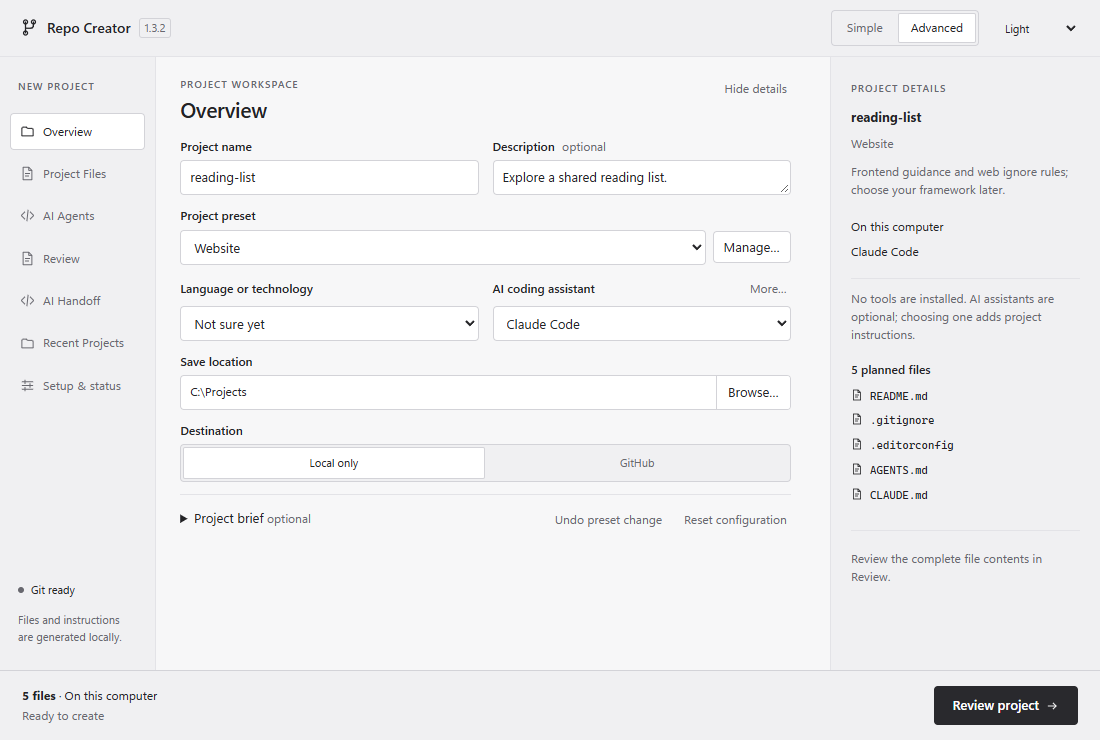
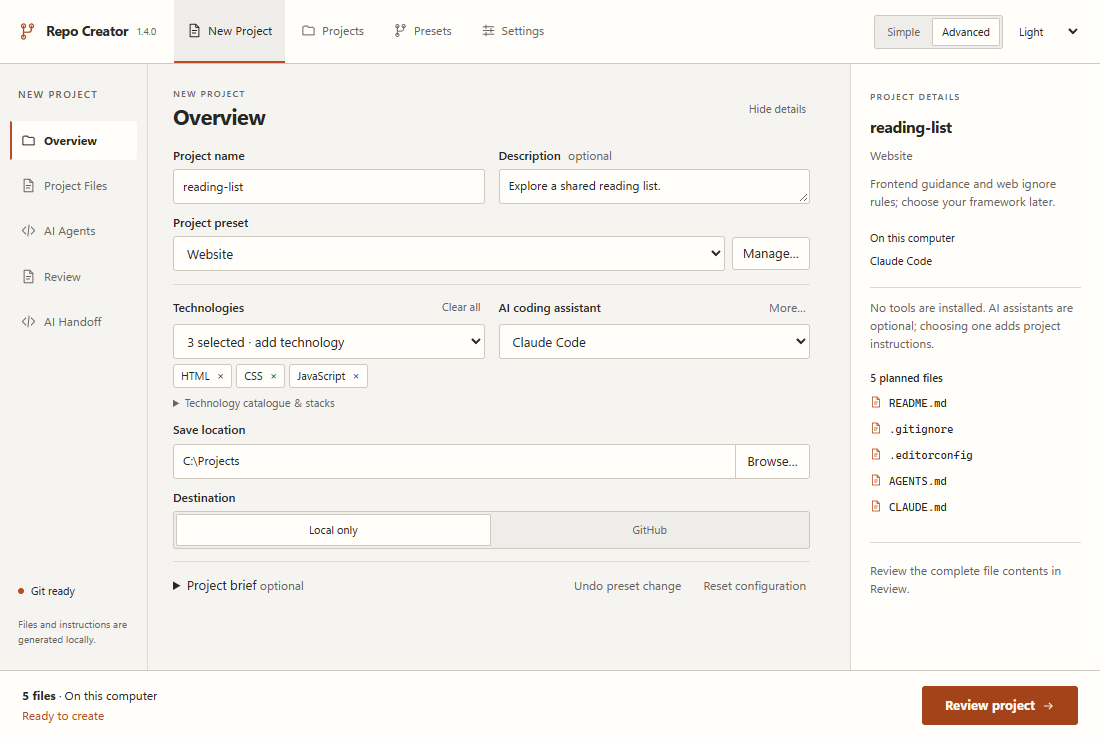
Document v1.4 workspace safety and verify Windows delivery

diff --git a/docs/project-workspace.md b/docs/project-workspace.md
@@ -1,0 +1,131 @@
+# Project workspace
+
+Repo Creator 1.4 adds a local project library and development workspace alongside
+repository creation. Choose **New Project** to create a repository, **Projects**
+to return to one, **Presets** for reusable configurations, or **Settings** to
+check the computer's setup. Simple and Advanced modes continue to share settings.
+
+## Choose a technology stack
+
+Select several technologies together. Search by name, filter by category, use a
+stack preset, or add a custom label. Remove individual chips or clear the
+selection. Simple Mode keeps common choices compact; expand its selector for the
+full catalogue.
+
+Technologies describe intent. Selecting React, Rust, SQLite and Cloudflare
+Workers does not install them or imply that they share an application component.
+Selections inform ignore recommendations, generated AI context, project summaries
+and handoff prompts. Review suggested ignore groups before creating the project.
+Older single-technology configuration and project presets remain supported.
+
+## Keep a project library
+
+Created projects enter **Projects**. Use **Add existing repository** to select an
+existing local Git repository. Repo Creator checks only the selected directory;
+it does not scan your drives or execute package scripts.
+
+Search and sort the library, pin useful projects, and open a workspace to inspect
+its location, Git branch/status and technology summary. The stored identity is
+the directory rather than the repository name, so projects with matching names
+can coexist. If a folder moves, use its location recovery action. Removing a
+project removes its library entry; it never deletes the source folder.
+
+Workspace preferences are local application data. Opening a project does not
+write configuration into its source tree.
+
+The Git overview is a safe summary: it disables repository-configured filters
+and fsmonitor hooks, avoids index writes and does not inspect submodule contents.
+Projects using content filters such as Git LFS may show changes in this summary.
+Use your terminal for the full Git status when needed. The library retains up to
+100 projects, with a bounded local history file.
+
+## Open development tools
+
+The workspace and creation result provide a compact launcher for the folder,
+terminal, VS Code, Claude Code CLI, Codex CLI and Antigravity CLI. Installed tools
+are enabled. Unavailable tools link to official guides without installing them.
+Antigravity IDE is a separate executable and is enabled only when its launch
+mechanism is verified.
+
+Choose a terminal preference and, when automatic discovery cannot find a tool,
+provide an absolute executable path in project settings. Paths are validated.
+Windows supports Windows Terminal and PowerShell; macOS supports Terminal. Tool
+discovery includes common user and Homebrew locations for Finder-launched apps.
+
+Interactive assistants open in a real terminal in the project directory. Repo
+Creator leaves their authentication, workspace trust and approval choices to
+the tools themselves. It does not add unrestricted execution flags.
+
+Official launch references checked for this implementation:
+
+- [Claude Code CLI](https://code.claude.com/docs/en/cli-reference): `claude`.
+- [Codex CLI](https://learn.chatgpt.com/docs/codex/cli): `codex`.
+- [Antigravity CLI](https://antigravity.google/docs/getting-started?tab=cli): `agy`.
+- [Windows Terminal arguments](https://learn.microsoft.com/en-us/windows/terminal/command-line-arguments).
+
+## Configure commands
+
+In **Commands**, add a command with a name, category and optional description.
+Categories are organisational labels: Setup, Development, Build, Test, Lint,
+Deploy and Custom. Several commands may use the same category.
+
+Choose one execution representation:
+
+- **Executable**: name or absolute executable path plus separate arguments.
+  Each argument remains a distinct value. Shell operators are not interpreted.
+- **Shell**: an explicitly authored command interpreted by PowerShell on Windows
+  or the platform shell on macOS. Use this deliberately for pipelines and shell
+  syntax; commands may need different syntax across operating systems.
+
+On Windows, recognised npm, npx, pnpm and Yarn batch shims are resolved to their
+Node entry points, including Corepack, so separate arguments stay literal.
+Other `.cmd` and `.bat` programs require explicit Shell mode.
+
+The working directory defaults to the project root. Supply an existing relative
+subdirectory or an absolute directory. The native backend verifies it before
+launch. Environment overrides are for non-secret configuration only. Keep
+credentials in your normal operating-system environment or the tool's credential
+store. Obvious credential-like environment names are rejected; no naming check
+can determine whether an arbitrary value is a secret.
+
+Edit, disable, delete or reorder saved commands. **Suggested commands** reads
+recognised project manifests, such as `package.json` scripts or a valid Cargo
+manifest, and offers commands for review. Selecting a technology alone does not
+invent a working build system. Discovery never runs scripts or installs packages.
+
+## Run and stop
+
+Only **Run** starts a command. Imported templates and discovered suggestions
+require explicit review of the actual command and working directory. They never
+run merely because you opened a project or applied a preset.
+
+The output panel shows stdout/stderr, running state, elapsed time and the final
+exit code. Use **Stop** for a long-running server; process-tree cleanup includes
+ordinary child processes. Closing Repo Creator stops managed command processes.
+Commands deliberately launched in an external terminal belong to that terminal.
+Use a terminal for interactive prompts; the output panel is not a terminal
+emulator and does not provide interactive stdin.
+
+Duplicate running instances of the same saved command are blocked. Retained
+output and completed-run history are bounded. Copy the output before clearing
+it if needed, and review it for credentials before sharing: tools can print
+secrets inherited from your environment, and Repo Creator cannot reliably redact
+arbitrary process output.
+
+A project can save up to 64 commands. Up to eight commands can run at once across
+the application; the latest 40 runs retain at most 256 KiB of output each. Run
+output is kept in memory, not written into project source or exported presets.
+
+## Reuse command presets
+
+Save workspace commands through the existing project preset system. A preset
+stores command templates alongside the project configuration. Import templates
+into another workspace, then review their commands and working directories.
+An imported command is not evidence that its executable, dependencies or scripts
+exist on this machine.
+
+Portable JSON exports remove command environment values and machine-specific
+working directories. Imported commands are always marked for review. Shell
+commands and absolute executable locations may need editing on another platform.
+Review all authored text before sharing a preset; do not put secrets into command
+arguments, descriptions or shell text.

diff --git a/docs/releases.md b/docs/releases.md
@@ -14,17 +14,17 @@ The normal **Desktop checks and test builds** workflow runs on pushes to `main`,
 
 `npm run desktop:build` uses a local wrapper to remap home, checkout, Cargo and Rustup paths to generic compiler source paths. This prevents compiler-generated source locations from retaining a builder's local username. Existing encoded Rust flags are preserved. A nonempty plain `RUSTFLAGS` causes a clear error rather than being silently replaced; unset it or move custom flags to Cargo's encoded form before building. Packaging scans the native executable for the current builder's home/source/toolchain paths in UTF-8 and UTF-16 and stops if any remain. These checks complement the broader source/history privacy review; they are not a complete secret scanner. See [Rust source-path remapping](https://doc.rust-lang.org/rustc/command-line-arguments.html#--remap-path-prefix-remap-source-names-in-output).
 
-Each successful platform job uploads only its versioned application assets and a platform checksum manifest. Development build folders and the portable ZIP staging folder are excluded. For version `1.3.2`, the application assets are:
+Each successful platform job uploads only its versioned application assets and a platform checksum manifest. Development build folders and the portable ZIP staging folder are excluded. For version `1.4.0`, the application assets are:
 
 | Platform                  | File                                                   |
 | ------------------------- | ------------------------------------------------------ |
-| Windows x64 installer     | `Repo-Creator-1.3.2-windows-x64-unsigned-setup.exe`    |
-| Windows x64 MSI           | `Repo-Creator-1.3.2-windows-x64-unsigned.msi`          |
-| Windows x64 portable app  | `Repo-Creator-1.3.2-windows-x64-unsigned-portable.zip` |
-| Apple Silicon installer   | `Repo-Creator-1.3.2-macos-arm64-adhoc.dmg`             |
-| Apple Silicon app archive | `Repo-Creator-1.3.2-macos-arm64-adhoc.app.tar.gz`      |
-| Intel Mac installer       | `Repo-Creator-1.3.2-macos-x64-adhoc.dmg`               |
-| Intel Mac app archive     | `Repo-Creator-1.3.2-macos-x64-adhoc.app.tar.gz`        |
+| Windows x64 installer     | `Repo-Creator-1.4.0-windows-x64-unsigned-setup.exe`    |
+| Windows x64 MSI           | `Repo-Creator-1.4.0-windows-x64-unsigned.msi`          |
+| Windows x64 portable app  | `Repo-Creator-1.4.0-windows-x64-unsigned-portable.zip` |
+| Apple Silicon installer   | `Repo-Creator-1.4.0-macos-arm64-adhoc.dmg`             |
+| Apple Silicon app archive | `Repo-Creator-1.4.0-macos-arm64-adhoc.app.tar.gz`      |
+| Intel Mac installer       | `Repo-Creator-1.4.0-macos-x64-adhoc.dmg`               |
+| Intel Mac app archive     | `Repo-Creator-1.4.0-macos-x64-adhoc.app.tar.gz`        |
 
 The portable ZIP contains the executable, license, third-party notices and short setup instructions. Packaging verifies every archive entry against its source bytes. Extract the entire ZIP before opening the executable. Installers and Mac app bundles include the license and notices as resources; CI compares the bundled Mac notices with the source and checks the MSI notice entries and Windows resource hashes. `SHA256SUMS-windows-x64.txt`, `SHA256SUMS-macos-arm64.txt` and `SHA256SUMS-macos-x64.txt` cover their respective platform downloads.
 
@@ -32,12 +32,12 @@ Actions artifacts are temporary test-build downloads and require repository acce
 
 ## Prepare an approved tag
 
-Do this only after the owner approves release preparation. Choose the exact reviewed commit, confirm all checks passed, and create/push `v1.3.2` using GitHub or Git. The tag must already exist on GitHub and point to a commit in the history of `main`. Do not move an existing release tag.
+Do this only after the owner approves release preparation. Choose the exact reviewed commit, confirm all checks passed, and create/push `v1.4.0` using GitHub or Git. The tag must already exist on GitHub and point to a commit in the history of `main`. Do not move an existing release tag.
 
-The application version must be `1.3.2` across the checked manifests and lockfiles. Validate it locally before requesting a tag:
+The application version must be `1.4.0` across the checked manifests and lockfiles. Validate it locally before requesting a tag:
 
 ```sh
-node scripts/release.mjs version --version 1.3.2 --tag v1.3.2
+node scripts/release.mjs version --version 1.4.0 --tag v1.4.0
 node --test scripts/release.test.mjs
 ```
 
@@ -45,20 +45,20 @@ node --test scripts/release.test.mjs
 
 From **Actions → Prepare release draft → Run workflow**, choose the workflow on `main`, then supply:
 
-- **version:** `1.3.2`
-- **tag:** `v1.3.2` (the existing approved tag)
+- **version:** `1.4.0`
+- **tag:** `v1.4.0` (the existing approved tag)
 - **create_draft:** leave false to prepare downloadable workflow artifacts without creating any release.
 - **publication_review_complete:** set true only after the owner has approved preparation and reviewed privacy, licensing and platform warnings; required when requesting a draft.
 
 The equivalent GitHub CLI command for preparing artifacts only is:
 
 ```sh
-gh workflow run release.yml --repo DefinitivedCode/RepoCreator --ref main -f version=1.3.2 -f tag=v1.3.2 -f create_draft=false -f publication_review_complete=false
+gh workflow run release.yml --repo DefinitivedCode/RepoCreator --ref main -f version=1.4.0 -f tag=v1.4.0 -f create_draft=false -f publication_review_complete=false
 ```
 
 For an explicitly approved draft, set both boolean inputs to `true`. This is preparation, not publication. The workflow resolves the existing tag to its immutable commit, repeats all three platform builds through the shared workflow, then verifies the complete seven-asset inventory and each platform's checksums. If any required build or check fails, it does not assemble a release or create a draft.
 
-The assembled Actions artifact is named `Repo-Creator-1.3.2-release-assets`. It contains the application assets, `LICENSE.txt`, `THIRD_PARTY_NOTICES.txt`, combined `SHA256SUMS.txt` and editable `RELEASE_NOTES.md`. The combined checksum file covers the application assets and notices. The notes file becomes draft release text rather than a downloadable release asset.
+The assembled Actions artifact is named `Repo-Creator-1.4.0-release-assets`. It contains the application assets, `LICENSE.txt`, `THIRD_PARTY_NOTICES.txt`, combined `SHA256SUMS.txt` and editable `RELEASE_NOTES.md`. The combined checksum file covers the application assets and notices. The notes file becomes draft release text rather than a downloadable release asset.
 
 With **create_draft** enabled, the final job refuses an existing draft or published release for that tag, then creates a draft with the verified assets. Concurrent preparations of the same tag run serially. Only this job has `contents: write`; checks and builds have `contents: read`. It uses the short-lived repository `GITHUB_TOKEN` and requires no external host, signing credential or personal access token. Repository policy must allow that token to create release drafts. There is no automatic publication or update service.
 

diff --git a/docs/v1.4-validation.md b/docs/v1.4-validation.md
@@ -1,0 +1,61 @@
+# Repo Creator 1.4.0 validation
+
+Local verification on Windows, 22 October 2026:
+
+- TypeScript and production frontend build passed.
+- 59 frontend unit tests and 42 Edge browser cases passed across light/dark.
+- Full Rust suite passed 81 tests; the additional pinned-library capacity
+  regression passed separately. Clippy with warnings denied and Rust formatting
+  passed.
+- All 16 build-wrapper, release-packaging and licensing script tests passed.
+- Prettier, whitespace checks, version consistency and third-party notices passed.
+- Production Windows x64 executable, NSIS and MSI packages built using the
+  existing path-remapping wrapper. Installer notice verification and distribution
+  packaging/checksums passed.
+- Both production WebView2 smoke scripts passed with isolated application data
+  and temporary repositories. UI previews matched disk files and initial commits.
+  Existing-directory protection, all six assistant instruction formats, window
+  persistence and supported dimensions were exercised.
+- Workspace smoke verified real stdout/stderr, literal arguments, Unicode cwd,
+  success/failure exit codes, imported-command consent, duplicate prevention,
+  long-running output, cancellation, child-tree cleanup and application closure.
+  Real PowerShell and Windows Terminal launches used a harmless compiled local
+  fixture; no real assistant session or remote repository was created.
+
+Local distribution files are under `artifacts/distribution/`:
+
+- `Repo-Creator-1.4.0-windows-x64-unsigned-setup.exe`
+- `Repo-Creator-1.4.0-windows-x64-unsigned.msi`
+- `Repo-Creator-1.4.0-windows-x64-unsigned-portable.zip`
+- `SHA256SUMS-windows-x64.txt`
+
+The native executable is
+`src-tauri/target/x86_64-pc-windows-msvc/release/repo-creator.exe`.
+Raw native reports/screenshots remain ignored under `artifacts/`; review them for
+local paths before sharing. Documentation screenshots use generic demonstration
+data.
+
+## Scope and remaining runtime verification
+
+The existing CI matrix remains Windows x64, macOS Apple Silicon and macOS Intel.
+Consult the pull request's checks and platform artifacts for CI results. No
+physical Mac runtime or installation testing was performed locally; the
+[Mac checklist](macOS-testing.md) remains applicable. Signing/notarization and
+release workflows are unchanged. No tag or GitHub release was published.
+
+Assistant launch contracts were checked against official documentation. Actual
+assistant authentication/model sessions were not part of automated tests.
+Antigravity IDE is offered only when the installed executable advertises the
+verified folder-launch contract. Arbitrary Windows batch files require explicit
+Shell mode; recognised Node package-manager shims support structured arguments.
+
+Safe Git status excludes submodule contents and disables external content
+filters. Filter-based projects can show conservative change results. Interactive
+commands should run in the external terminal. Captured output is bounded and
+ordinary child processes are owned by Job Objects/process groups; deliberately
+escaping Unix process groups is outside this mechanism.
+
+See the [workspace guide](project-workspace.md) for command trust, storage,
+portability and output limits. Three separate editable identity concepts and the
+README banner are available in the [branding review](branding/README.md). The
+shipping icon remains unchanged.

diff --git a/docs/getting-started.md b/docs/getting-started.md
@@ -22,7 +22,7 @@ While the repository remains private, the source and build artifacts are availab
 
 ## Check Git
 
-1. Open Repo Creator and select **Setup & status**.
+1. Open Repo Creator and select **Settings**.
 2. If Git is missing, use **Open Git installation instructions** and install it from the official source.
 3. Return to the app and select **Recheck**. If it is still unavailable, reopen the app and see [Troubleshooting](troubleshooting.md).
 4. If a commit identity is missing, enter a name and email in the project identity fields. This applies only to the new project. Use an email you are comfortable recording in Git history; GitHub offers a [private no-reply address](https://docs.github.com/en/account-and-profile/how-tos/email-preferences/setting-your-commit-email-address).
@@ -42,7 +42,7 @@ The project gets a new child folder. Repo Creator refuses to overwrite an existi
 
 ## Publish to GitHub
 
-Install [GitHub CLI](https://cli.github.com/) first. In **Setup & status**, select **Connect to GitHub** and complete GitHub CLI's official sign-in in the terminal/browser it opens. Return to Repo Creator and check the connection.
+Install [GitHub CLI](https://cli.github.com/) first. In **Settings**, select **Connect to GitHub** and complete GitHub CLI's official sign-in in the terminal/browser it opens. Return to Repo Creator and check the connection.
 
 In Overview, select **Computer and GitHub**, choose an owner, and review **Private** or **Public** visibility. GitHub enforces account and organisation permissions. Creation still makes a local repository, then publishes its initial commit. GitHub projects use the verified account's no-reply commit email for that initial commit.
 
@@ -56,6 +56,6 @@ Simple and Advanced use the same settings. Switching modes does not discard conf
 - **AI Agents** configures optional assistants, specialists and skills. It generates local instruction/configuration files; it does not run a model or install tools.
 - **Manage…** saves, updates, duplicates, imports and exports project presets. Applying a preset offers **Undo preset change**. Imports are reviewed before use and do not execute code.
 - **AI Handoff** prepares editable prompts locally. Missing details are omitted. Changing a template or style keeps your edits until **Regenerate**. Copying a prompt into another service shares the text you choose to send.
-- **Recent Projects** records creation details and can reopen known folders. It describes initial creation, not later file changes.
+- **Projects** opens the local library and workspace, including Git status, launchers, saved commands and project preferences. Add an existing Git repository without scanning the filesystem. See the [project workspace guide](project-workspace.md).
 
 Preferences, custom presets and recent-project metadata stay in local app storage. They can contain project descriptions, paths and authored configuration. Review settings files and screenshots for private information before sharing them. GitHub credentials remain managed by GitHub CLI.

diff --git a/docs/development.md b/docs/development.md
@@ -35,7 +35,7 @@ The standard HTTPS URL permits anonymous cloning once the repository is public. 
 
 Preview and creation use the same Rust generator. The native boundary revalidates input and receives structured command arguments. Existing destinations are never adopted or overwritten; native creation guards reject duplicate operations. Publishing failures preserve completed local work. Do not replace these boundaries with frontend filesystem or shell access.
 
-The app generates project configuration rather than installing frameworks or invoking coding assistants. [Agent format documentation](agent-formats.md) records supported provider formats and sources. Product instruction templates are application data, separate from developer instructions for this repository.
+The generator describes intended project context without installing frameworks. The project workspace can explicitly launch installed tools and user-authored commands through the native backend. [Workspace contracts](workspace-architecture.md) describe the shared types; the [workspace guide](project-workspace.md) documents execution and safety. [Agent format documentation](agent-formats.md) records supported provider formats and sources. Product instruction templates are application data, separate from developer instructions for this repository.
 
 ## Checks
 
@@ -88,9 +88,16 @@ After building, run the real WebView2 application through the opt-in test:
 ```powershell
 $env:REPO_CREATOR_SMOKE_EXE = (Resolve-Path 'src-tauri/target/x86_64-pc-windows-msvc/release/repo-creator.exe').Path
 node tests/native-smoke.mjs
+node tests/native-workspace-smoke.mjs
 ```
 
 The script uses isolated application/WebView data and temporary local projects, verifies previews against disk and initial commits, checks existing-directory protection and restores a resized window after relaunch. It also exercises all six assistants and built-in specialists/skills. It removes its owned temporary data and leaves a report/screenshots under ignored `artifacts/`. It does not publish repositories. Inspect reports before sharing: native screenshots may include local temporary paths.
+
+The workspace smoke additionally exercises real command output, exit codes,
+import consent, duplicate prevention, cancellation and child-process cleanup,
+including application closure. It compiles a harmless local launcher fixture to
+verify Windows Terminal/PowerShell cwd and arguments without starting real
+assistant sessions. Use the same `REPO_CREATOR_SMOKE_EXE` for both scripts.
 
 ## Persistence and privacy
 

diff --git a/docs/macOS-testing.md b/docs/macOS-testing.md
@@ -24,7 +24,7 @@ Do not disable Gatekeeper, remove quarantine attributes or change system-wide pr
 
 ## Create a local experiment
 
-1. Open Repo Creator and choose **Setup & status**.
+1. Open Repo Creator and choose **Settings**.
 2. If Git is missing, open its official installation instructions, install it, then return and select **Recheck**.
 3. If asked for a commit identity, enter the name and email you want recorded in the new project. These fields do not change global Git settings.
 4. Select **Simple**, give the project a new name, choose **Experiment**, and select a writable parent folder inside Documents.
@@ -40,9 +40,13 @@ Use new local demonstration projects and preserve previous project files.
 - [ ] Launch from Applications and complete Git detection/identity setup.
 - [ ] Create **Blank repository** and **Experiment** locally; verify path, branch and initial commit on success.
 - [ ] Create an optional assistant configuration and compare files with Review previews, without the assistant installed.
-- [ ] Try Simple/Advanced, Project Files, AI Agents, Review, AI Handoff and Recent Projects in light/dark modes.
+- [ ] Try Simple/Advanced, Project Files, AI Agents, Review, AI Handoff and Projects in light/dark modes.
 - [ ] Test the default window, a smaller window and 125%/150% display or text scaling where available. Controls must remain reachable and the primary action visible.
 - [ ] Open the folder and optional editor; test a parent folder containing spaces and non-ASCII characters.
+- [ ] Add an existing Git repository in Projects; check missing-folder recovery and local settings persistence.
+- [ ] Launch macOS Terminal and installed assistants from a Unicode project path; confirm the directory and normal permission prompts.
+- [ ] Run a harmless short command, a failing command and a long-running local process. Check output, exit codes, Stop and cleanup on Quit.
+- [ ] Review imported command templates before execution; confirm no process starts on project opening or discovery.
 - [ ] Close/reopen the app and verify preferences, recent projects and resized dimensions.
 
 Optional Git verification in the created folder uses `git log -1` and `git status`; expect the initial commit and a clean working tree. Publishing to a real GitHub account is a separate manual test requiring the tester's explicit choice, not part of automated CI.

diff --git a/README.md b/README.md
@@ -14,6 +14,10 @@ A desktop application for creating and configuring Git repositories on Windows a
 - Generate a README, `.gitignore`, license and optional project files, with previews before creation.
 - Add optional configuration for Codex, Claude Code, GitHub Copilot, Cursor, Gemini CLI and OpenCode.
 - Prepare AI handoff prompts locally, without an AI account or API request.
+- Combine languages, frameworks, runtimes, databases and deployment technologies.
+- Keep a searchable project library with pinned projects and local workspaces.
+- Open editors, terminals and supported coding assistants in the project folder.
+- Save project commands, follow live output and stop running processes.
 
 ## Download
 
@@ -29,12 +33,12 @@ Windows builds are unsigned. Mac builds are ad-hoc signed and **not notarized**;
 
 ## Getting started
 
-1. Install or open Repo Creator, then visit **Setup & status** to check Git.
+1. Install or open Repo Creator, then visit **Settings** to check Git.
 2. Enter a project name and choose a starting point, such as **Experiment**.
 3. Choose a save location and **On this computer** for a local project. Publishing through **Computer and GitHub** additionally requires GitHub CLI and sign-in.
 4. Select **Review project**, inspect the files, then choose **Create Project**.
 
-Repo Creator creates a new child folder and initial commit. Existing files and folders are never overwritten. See [Getting started](docs/getting-started.md) for the complete workflow and [Troubleshooting](docs/troubleshooting.md) for setup or publication failures.
+Repo Creator creates a new child folder and initial commit. Existing files and folders are never overwritten. Return through **Projects** to manage the workspace, launch tools and configure commands. See [Getting started](docs/getting-started.md), the [project workspace guide](docs/project-workspace.md) and [Troubleshooting](docs/troubleshooting.md).
 
 ## Requirements
 

diff --git a/docs/troubleshooting.md b/docs/troubleshooting.md
@@ -12,7 +12,7 @@ Mac builds are ad-hoc signed and not notarized. Follow the [Mac guide](macOS-tes
 
 ## Git or another tool is not detected
 
-Open **Setup & status**, use the relevant official installation link, then select **Recheck**. Reopen Repo Creator if the installer changed your environment.
+Open **Settings**, use the relevant official installation link, then select **Recheck**. Reopen Repo Creator if the installer changed your environment.
 
 Git is required for local creation. GitHub CLI and sign-in are required only for GitHub publishing. Coding assistants and VS Code are optional, so their absence does not prevent local creation or prompt generation.
 
@@ -20,7 +20,7 @@ On macOS, Finder-launched apps may have a different executable search path from 
 
 ## Commit identity is missing
 
-Enter the project's commit name and email in **Setup & status**, or configure Git using its [first-time setup guide](https://git-scm.com/book/en/v2/Getting-Started-First-Time-Git-Setup). Project fields affect only the new repository. Choose an email you are comfortable recording in commits; GitHub documents [private no-reply addresses](https://docs.github.com/en/account-and-profile/how-tos/email-preferences/setting-your-commit-email-address).
+Enter the project's commit name and email in **Settings**, or configure Git using its [first-time setup guide](https://git-scm.com/book/en/v2/Getting-Started-First-Time-Git-Setup). Project fields affect only the new repository. Choose an email you are comfortable recording in commits; GitHub documents [private no-reply addresses](https://docs.github.com/en/account-and-profile/how-tos/email-preferences/setting-your-commit-email-address).
 
 For a GitHub project, Repo Creator verifies the authenticated account and uses its no-reply email for the initial commit. It does not change global Git identity.
 

diff --git a/SECURITY.md b/SECURITY.md
@@ -9,3 +9,10 @@ If private reporting is unavailable, open an ordinary issue requesting a private
 Report the affected version, platform, impact and minimal reproduction through the agreed private channel. Use test data and remove secrets. If a credential may have been exposed, revoke or rotate it through its provider; deleting a file does not remove it from Git history or downloaded artifacts.
 
 Repo Creator's GitHub authentication is managed by GitHub CLI. The application generates coding-agent configuration and handoff prompts locally; sharing those files or prompts with another service remains a separate user action.
+
+Workspace commands run with the current user's permissions only after an explicit
+Run action. Imported commands require review and never auto-run. Command processes
+inherit the ordinary user environment, which can contain credentials; do not put
+secrets in saved command text, arguments or overrides. Export strips command
+environment values, but cannot reliably redact authored text or process output.
+Read the [execution model](docs/project-workspace.md) before sharing presets or logs.
